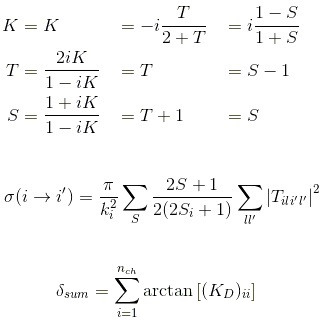
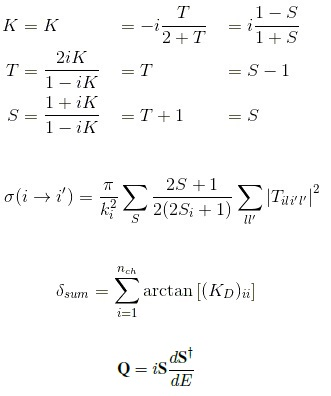
Update documentation for Q-matrix

diff --git a/README.md b/README.md
@@ -21,7 +21,7 @@ This package extends the containers in the [matfuncutil](https://github.com/pete
 
 A continuous container is also provided, `cMatSympypolyk`, which extends `matfuncutil.cMatSympypoly` by allowing energy parametrisation using the `AsymCalc` object.
 
-Conversions, cross sections and eigenphase sums are calculated as:<br/>
+Conversions, cross sections, eigenphase sums and the Q-matrix are calculated as:<br/>
 
 ![equations](https://github.com/petersbingham/tisutil/blob/master/equations.jpg)
 
